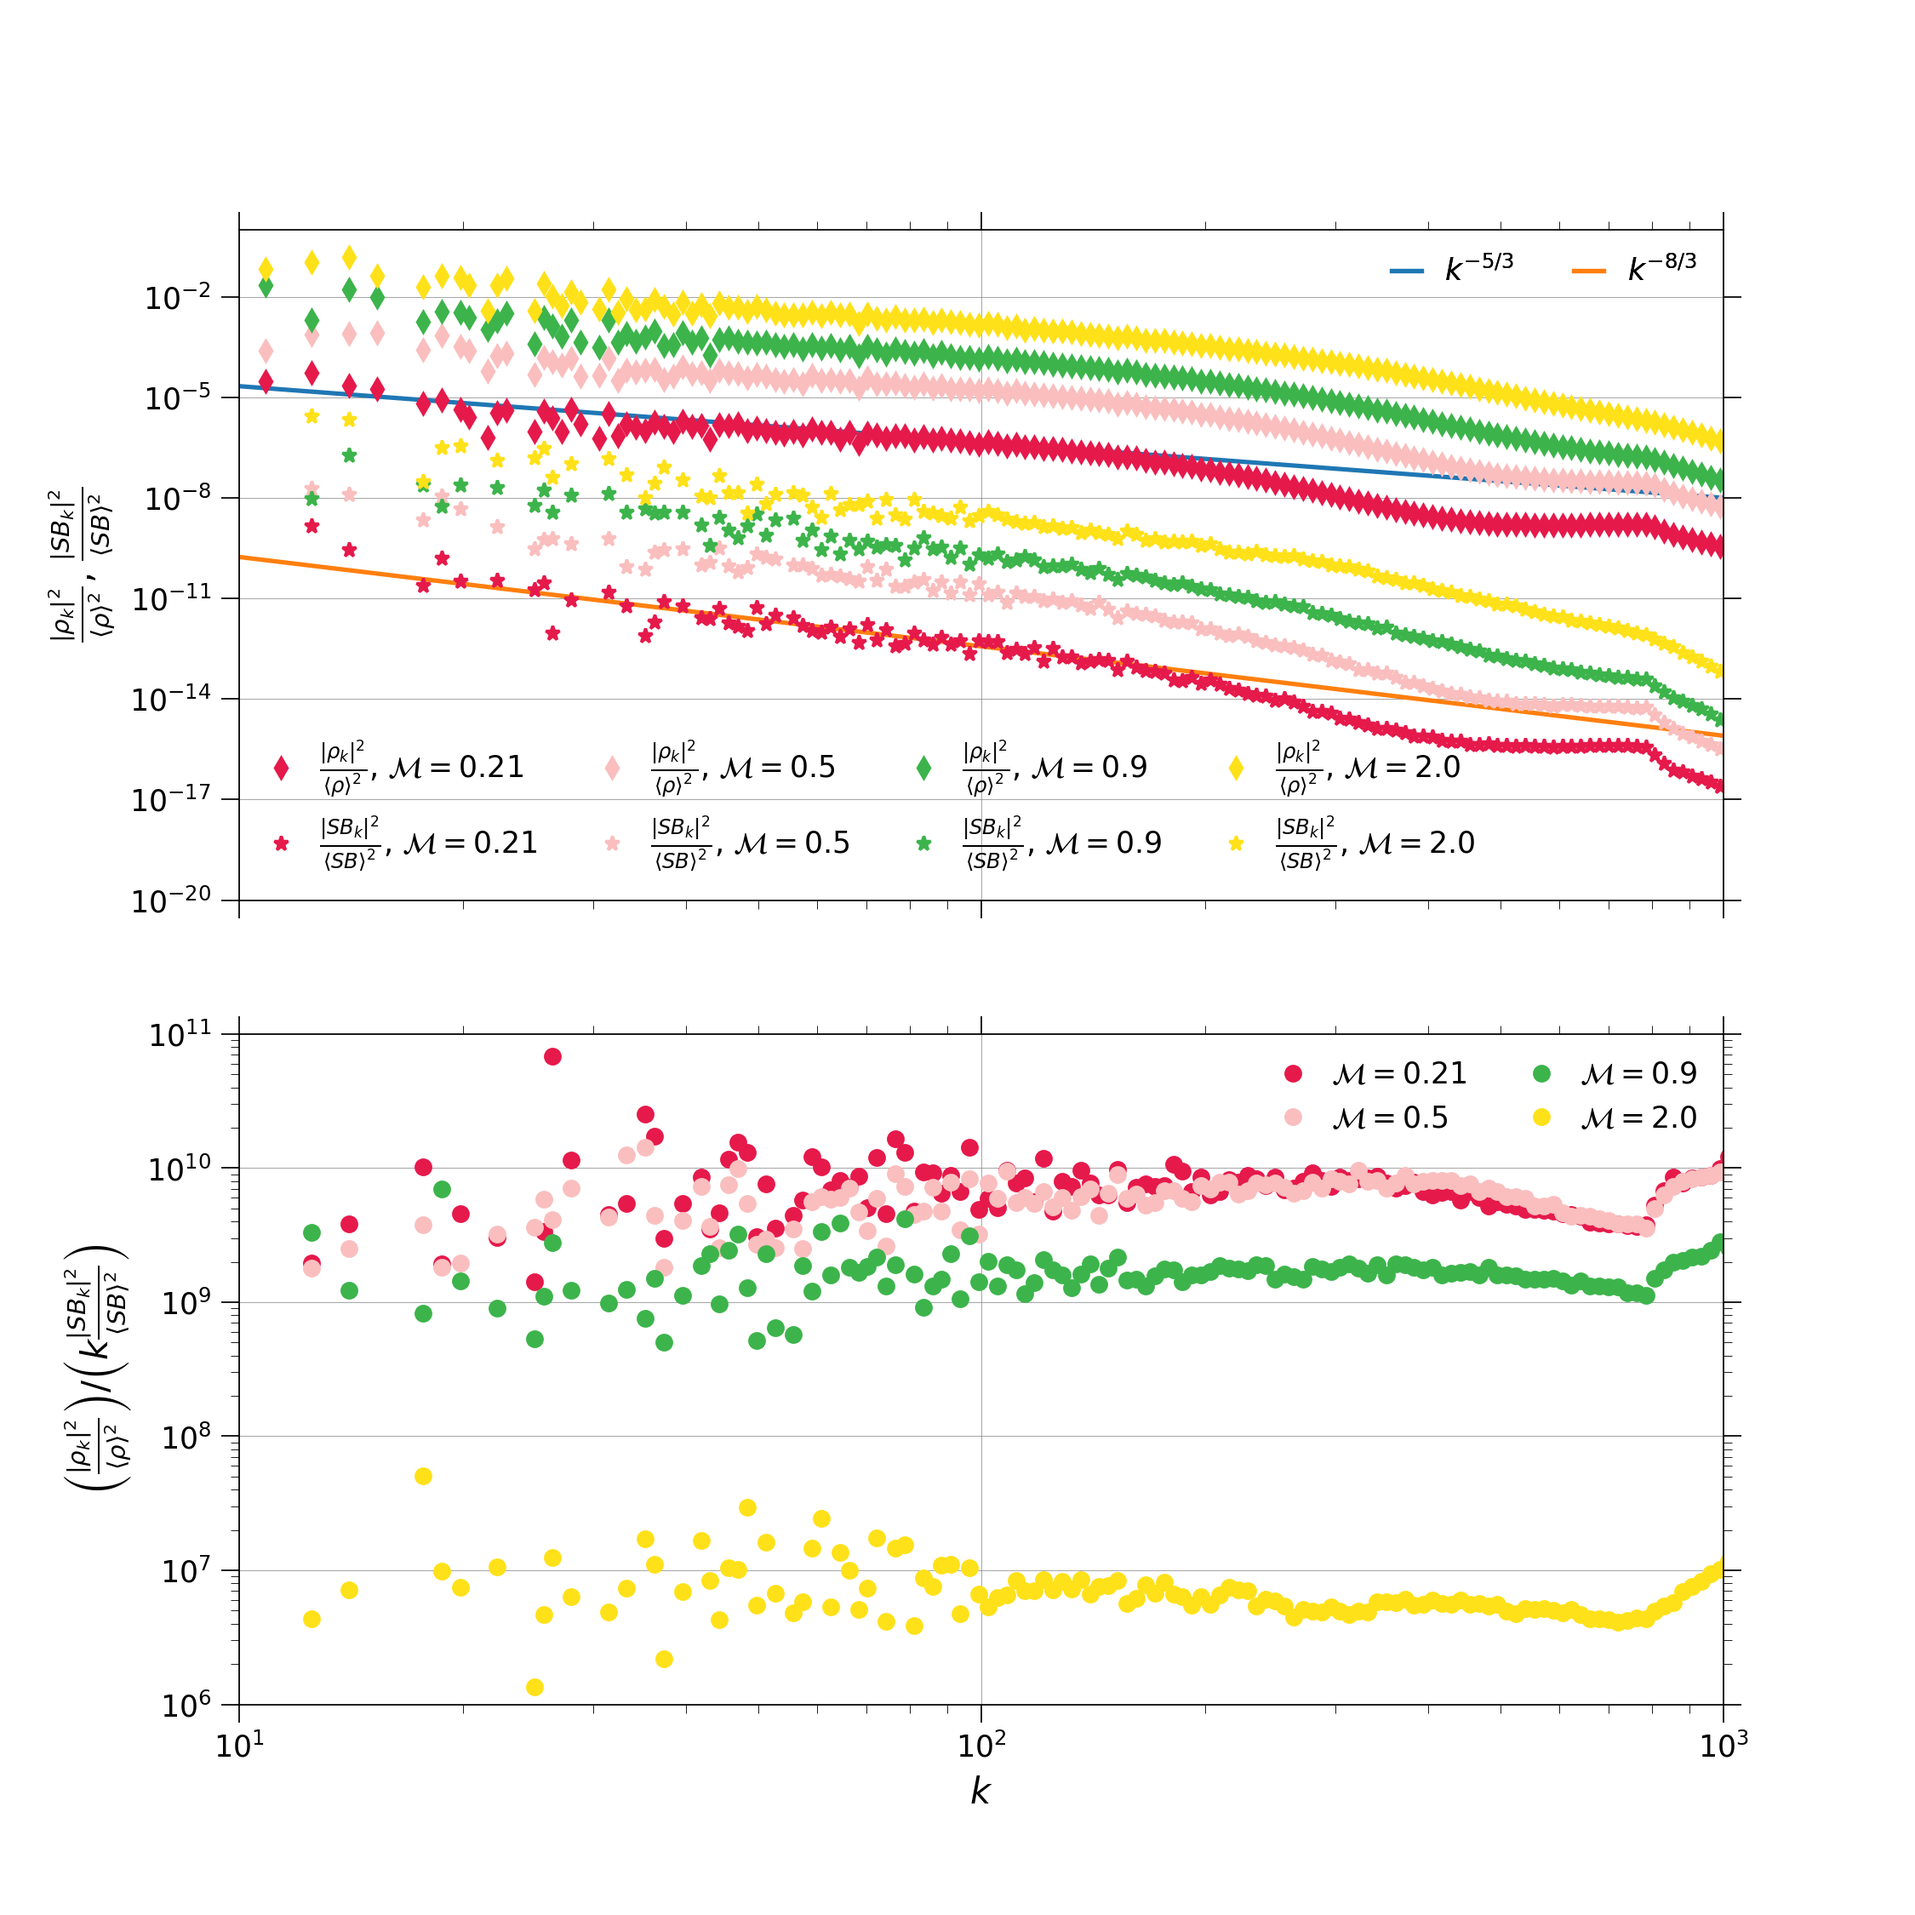
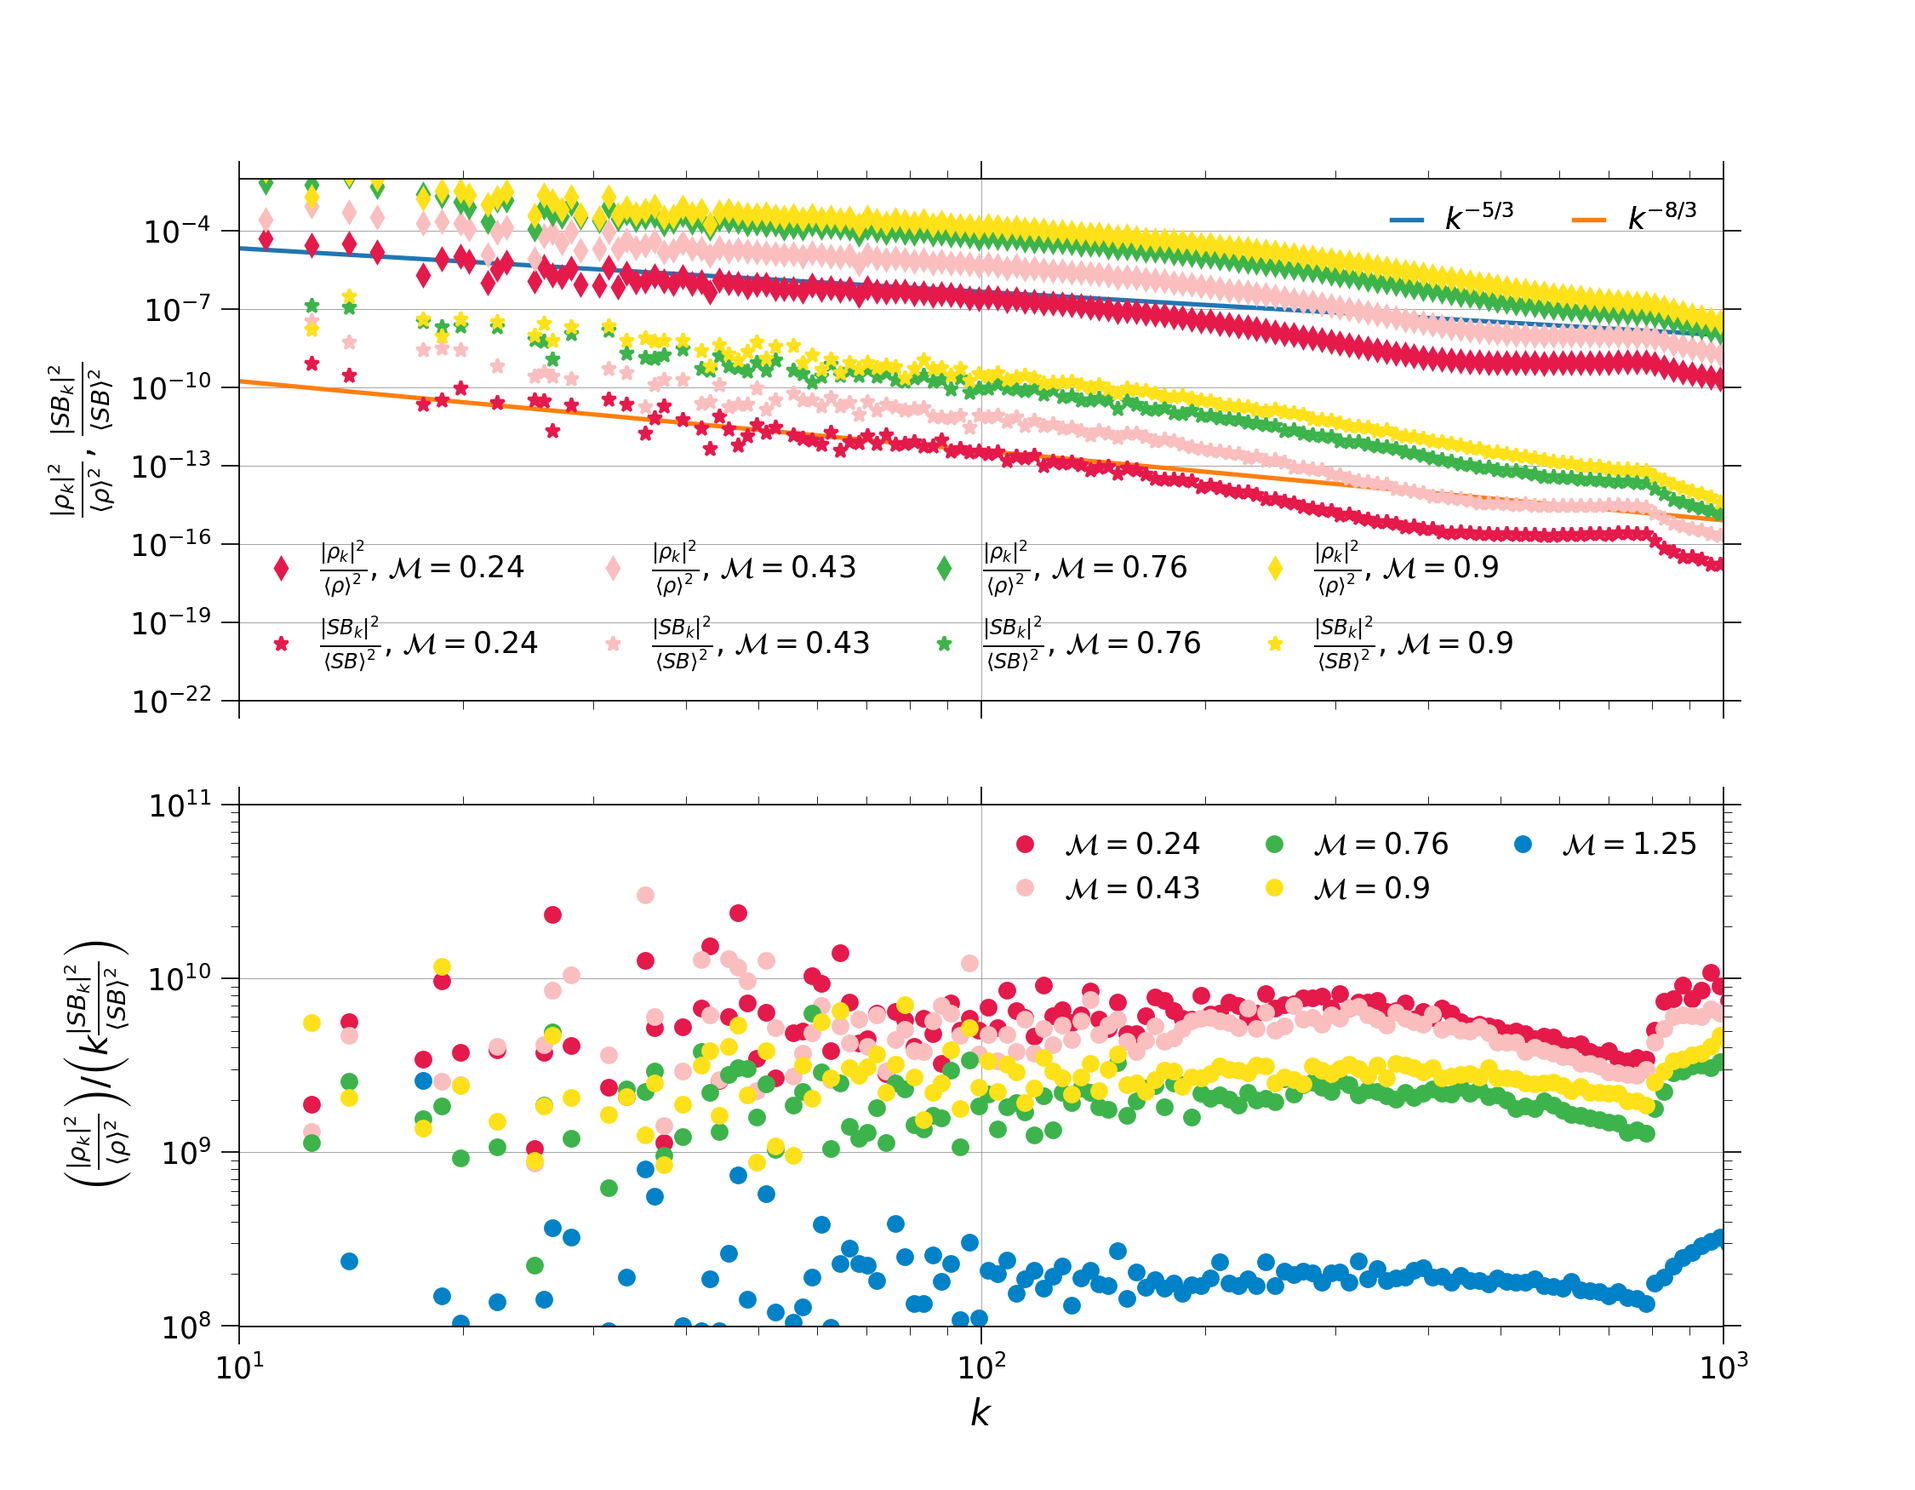
Edited sb plots

diff --git a/surface_brightness/sb_mach.py b/surface_brightness/sb_mach.py
@@ -43,7 +43,7 @@ no_files=2
 sb_dev=np.zeros((start.size))
 sb_mean=np.zeros((start.size))
 for i in xrange(start.size):
-	filedir='/mnt/lustre/ug4/ugrajs/fiducial_runs/256/amp'+str(int(amp[i]*10000)).rjust(5,'0')+'/'
+	filedir='/mnt/lustre/ug4/ugrajs/fiducial_runs/256/amp'+str(int(amp[i]*10000)).rjust(5,'0')+'/run1/'
 	data=np.fromfile(filedir+'sbs'+str(start[i]).rjust(4,'0')+'.dbl')
 	sb_dev[i]=np.std(data)
 	sb_mean[i]=np.average(data)
@@ -63,16 +63,24 @@ plt.savefig('sb_mach.png', dpi=250)
 plt.close()
 
 fig, (ax1, ax2) = plt.subplots(2, 1, sharex=True)
-fig.set_size_inches(9, 9)
+fig.set_size_inches(9, 7)
+
+start=np.array((100, 75, 20, 14, 5, 2))
+amp=np.array((0.005, 0.02, 0.1, 0.1, 0.9,2.5))
+mach=((0.24, 0.43, 0.76, 0.90, 1.25, 2.1))
+
 for i in xrange(start.size):
-	if (i%3<1e-1):
-		j=int(i/3)
-		filedir='/mnt/lustre/ug4/ugrajs/fiducial_runs/256/amp'+str(int(amp[i]*10000)).rjust(5,'0')+'/'
+	#if (i%3<1e-1):
+	if (i<5):
+		#j=int(i/3)
+		j=i
+		filedir='/mnt/lustre/ug4/ugrajs/fiducial_runs/256/amp'+str(int(amp[i]*10000)).rjust(5,'0')+'/run1/'
 		rhok=np.loadtxt(filedir+'Rhoks'+str(start[i]).rjust(4,'0')+'.txt')
 		sbk =np.loadtxt(filedir+'sbks'+str(start[i]).rjust(4,'0')+'.txt')
 
-		spectra[2*j]=ax1.errorbar(rhok[:,0][1:-20], rhok[:,1][1:-20], fmt='d', color=colors[j], markeredgecolor=None, markersize=5.0, ecolor=None, capsize=None, barsabove=False, label=r'$\frac{|\rho_k|^2}{\left<\rho\right>^2}$, $\mathcal{M}=$'+str(mach[i]))
-		spectra[2*j+1]=ax1.errorbar(sbk[:,0][1:-20], sbk[:,1][1:-20]/sb_mean[i]**2., fmt='*', color=colors[j], markeredgecolor=None, markersize=5.0, ecolor=None, capsize=None, barsabove=False, label=r'$\frac{|SB_k|^2}{\left<SB\right>^2}$, $\mathcal{M}=$'+str(mach[i]))
+		if (j<4):
+			spectra[2*j]=ax1.errorbar(rhok[:,0][1:-20], rhok[:,1][1:-20], fmt='d', color=colors[j], markeredgecolor=None, markersize=5.0, ecolor=None, capsize=None, barsabove=False, label=r'$\frac{|\rho_k|^2}{\left<\rho\right>^2}$, $\mathcal{M}=$'+str(mach[i]))
+			spectra[2*j+1]=ax1.errorbar(sbk[:,0][1:-20], sbk[:,1][1:-20]/sb_mean[i]**2., fmt='*', color=colors[j], markeredgecolor=None, markersize=5.0, ecolor=None, capsize=None, barsabove=False, label=r'$\frac{|SB_k|^2}{\left<SB\right>^2}$, $\mathcal{M}=$'+str(mach[i]))
 
 		ax2.errorbar(sbk[:,0][1:-20], rhok[:,1][1:-20]/sbk[:,1][1:-20]/sb_mean[i]**2./sbk[:,0][1:-20], fmt='o', color=colors[j], markeredgecolor=None, markersize=5.0, ecolor=None, capsize=None, barsabove=False, label= '$\mathcal{M}=$'+str(mach[i]))
 
@@ -95,17 +103,17 @@ ax1.set_yscale('log')
 ax1.set_xscale('log')
 ax1.set_ylabel(r'$\frac{|\rho_k|^2}{\left<\rho\right>^2}$, $\frac{|SB_k|^2}{\left<SB\right>^2}$', fontsize=12)
 ax1.set_xlim(1e1, 1e3)
-ax1.set_ylim(1e-20,1.)
+ax1.set_ylim(1e-22,1e-2)
 
 ax2.set_ylabel(r'$\left(\frac{|\rho_k|^2}{\left<\rho\right>^2}\right)/\left(k\frac{|SB_k|^2}{\left<SB\right>^2}\right)$', fontsize=12)
 ax2.set_xlabel('$k$', fontsize=12)
-ax2.set_ylim(1e6,1e11)
+ax2.set_ylim(1e8,1e11)
 ax2.tick_params(axis='both', which='major', direction='out', length=6, width=0.5, top=True, right=True)
 ax2.tick_params(axis='both', which='minor', direction='out', length=3, width=0.25, top=True, right=True)
 ax2.grid(color='grey', linestyle='-', linewidth=0.2)
 ax2.set_yscale('log')
 ax2.set_xscale('log')
-ax2.legend(loc='upper right', bbox_to_anchor=(1., 1.0), ncol=2, fancybox=True, framealpha=0.)
+ax2.legend(loc='upper right', bbox_to_anchor=(1., 1.0), ncol=3, fancybox=True, framealpha=0.)
 
 #plt.show()
 plt.savefig('SBk_rhok.png', dpi=250)
